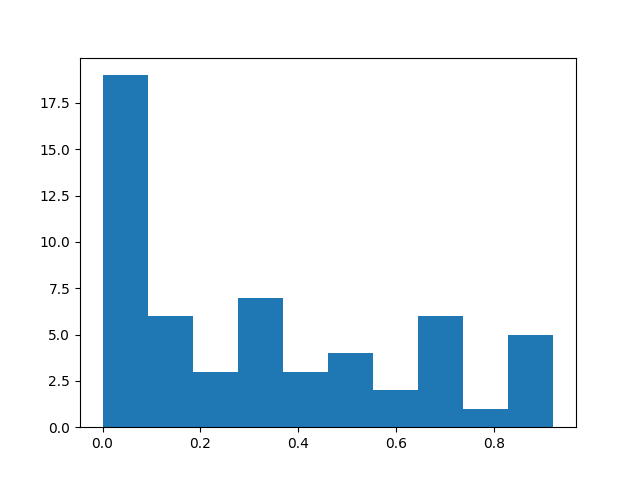
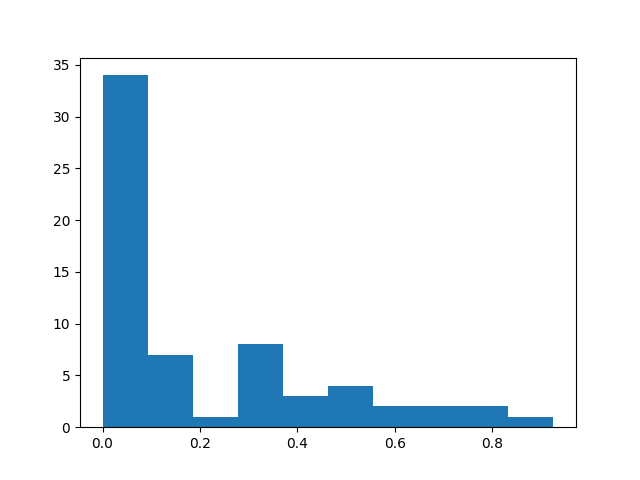
AdjR2

diff --git a/overconditioning.py b/overconditioning.py
@@ -228,12 +228,12 @@ def OC_DA_BS_Criterion(ns, nt, a, b, XsXt_, Xtilde, Ytilde, Sigmatilde, B, S_, h
     # itvCriterion = interval_AIC_BS(Xtilde, Ytilde, 
     #                                     lst_P, len(SELECTION_F), 
     #                                     GAMMA.dot(a), GAMMA.dot(b), Sigmatilde, seed)
-    itvCriterion = interval_BIC(Xtilde, Ytilde, 
-                                        lst_P, len(SELECTION_F), 
-                                        GAMMA.dot(a), GAMMA.dot(b), Sigmatilde, seed)
-    # itvCriterion = interval_AdjustedR2(Xtilde, Ytilde, 
+    # itvCriterion = interval_BIC(Xtilde, Ytilde, 
     #                                     lst_P, len(SELECTION_F), 
     #                                     GAMMA.dot(a), GAMMA.dot(b), Sigmatilde, seed)
+    itvCriterion = interval_AdjustedR2(Xtilde, Ytilde, 
+                                        lst_P, len(SELECTION_F), 
+                                        GAMMA.dot(a), GAMMA.dot(b), Sigmatilde, seed)
 
     finalinterval = intersection.Intersec(itvDA, itvBS) 
     finalinterval = intersection.Intersec(finalinterval, itvCriterion)

diff --git a/parametric.py b/parametric.py
@@ -72,7 +72,8 @@ def para_DA_BSwithAIC(ns, nt, a, b, X, Sigma, S_, h_, SELECTION_F,seed = 0):
         Ytildeinloop = np.dot(GAMMAdeltaz, Ydeltaz)
 
         Sigmatilde_deltaz = GAMMAdeltaz.T.dot(Sigma.dot(GAMMAdeltaz))
-        SELECTIONinloop = ForwardSelection.SelectionAICforBS(Ytildeinloop, Xtildeinloop, Sigmatilde_deltaz)
+        # SELECTIONinloop = ForwardSelection.SelectionBIC(Ytildeinloop, Xtildeinloop, Sigmatilde_deltaz)
+        SELECTIONinloop = ForwardSelection.SelectionAdjR2(Ytildeinloop, Xtildeinloop)
         
         intervalinloop = overconditioning.OC_DA_BS_Criterion(ns, nt, a, b, XsXt_deltaz, 
                                                             Xtildeinloop, Ytildeinloop, Sigmatilde_deltaz, 

diff --git a/pivot.py b/pivot.py
@@ -140,8 +140,8 @@ def pvalue_SI(seed, ns, nt, p, true_betaS, true_betaT, k):
     # Best model from 1...p models by AIC criterion
     if k == -1:
         # SELECTION_F = FS.SelectionAICforBS(Ytilde, Xtilde, Sigmatilde)
-        SELECTION_F = FS.SelectionBIC(Ytilde, Xtilde, Sigmatilde)
-        # SELECTION_F = FS.SelectionAdjR2(Ytilde, Xtilde)
+        # SELECTION_F = FS.SelectionBIC(Ytilde, Xtilde, Sigmatilde)
+        SELECTION_F = FS.SelectionAdjR2(Ytilde, Xtilde)
     else:
         SELECTION_F = FS.fixedBS(Ytilde, Xtilde, k)[0]
     Xt_M = Xt[:, sorted(SELECTION_F)].copy()

diff --git a/INIT_and_RUN.py b/INIT_and_RUN.py
@@ -22,7 +22,7 @@ def run(iter = 0):
     # pvalue = pivot_nonDA.pvalue_SI(seed, ns, p, true_beta_t)
 
     # Save pvalue into file
-    OCorPARA_FIXorAIC_FPRorTPR ='para_AIC_TPR'
+    OCorPARA_FIXorAIC_FPRorTPR ='para_AdjR2_TPR'
     # filename = f'Experiment/LstpBS_{OCorPARA_FIXorAIC_FPRorTPR}_{ns}_{p}.txt'
     filename = f'Experiment/LstBS_{OCorPARA_FIXorAIC_FPRorTPR}_{ns}_{p}_{betat}.txt'
     with open(filename, 'a') as f:

diff --git a/Parallel_computing.py b/Parallel_computing.py
@@ -6,7 +6,7 @@ import matplotlib.pyplot as plt
 from math import comb, perm
 import os
 def main(st = 0):
-    max_iteration = 56
+    max_iteration = 120
     list_p_value = []
     # ssize = 50
     alpha = 0.05 #/ (5*2**4)  #/ (3*comb(5,3)) 
